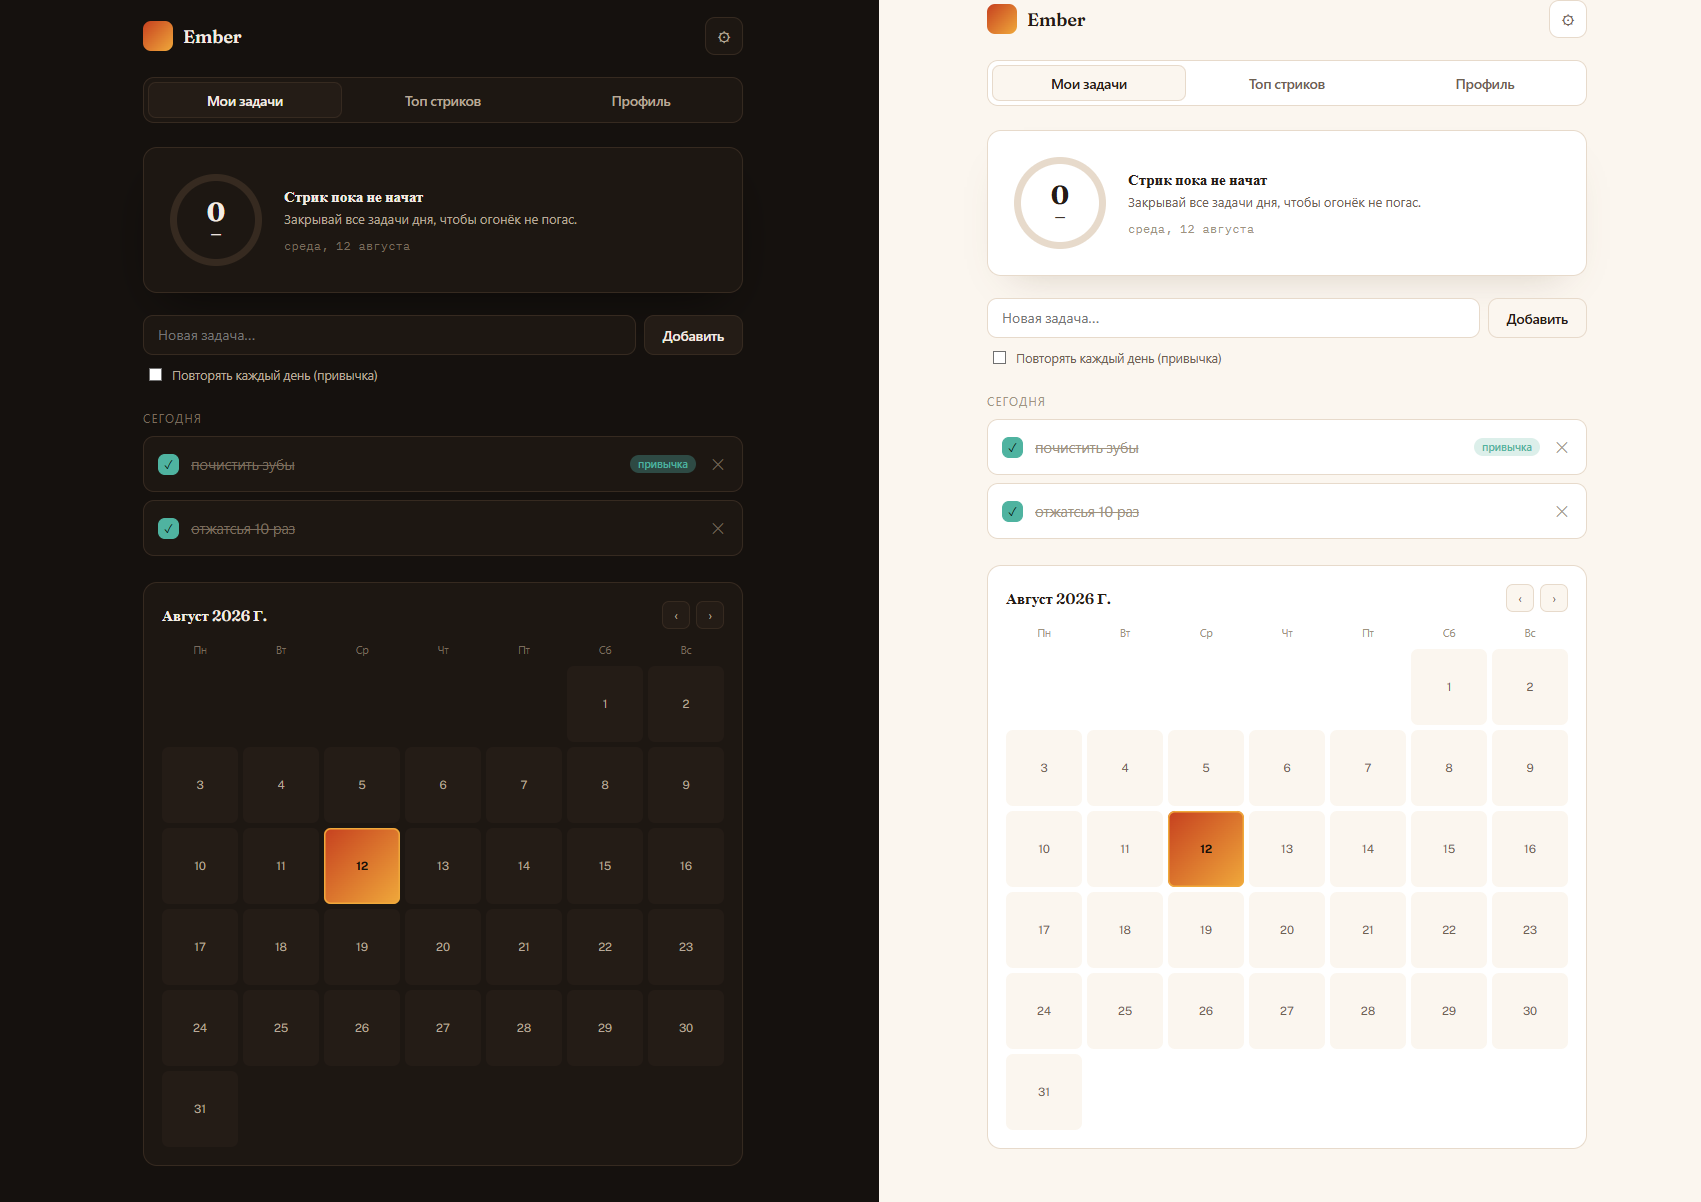
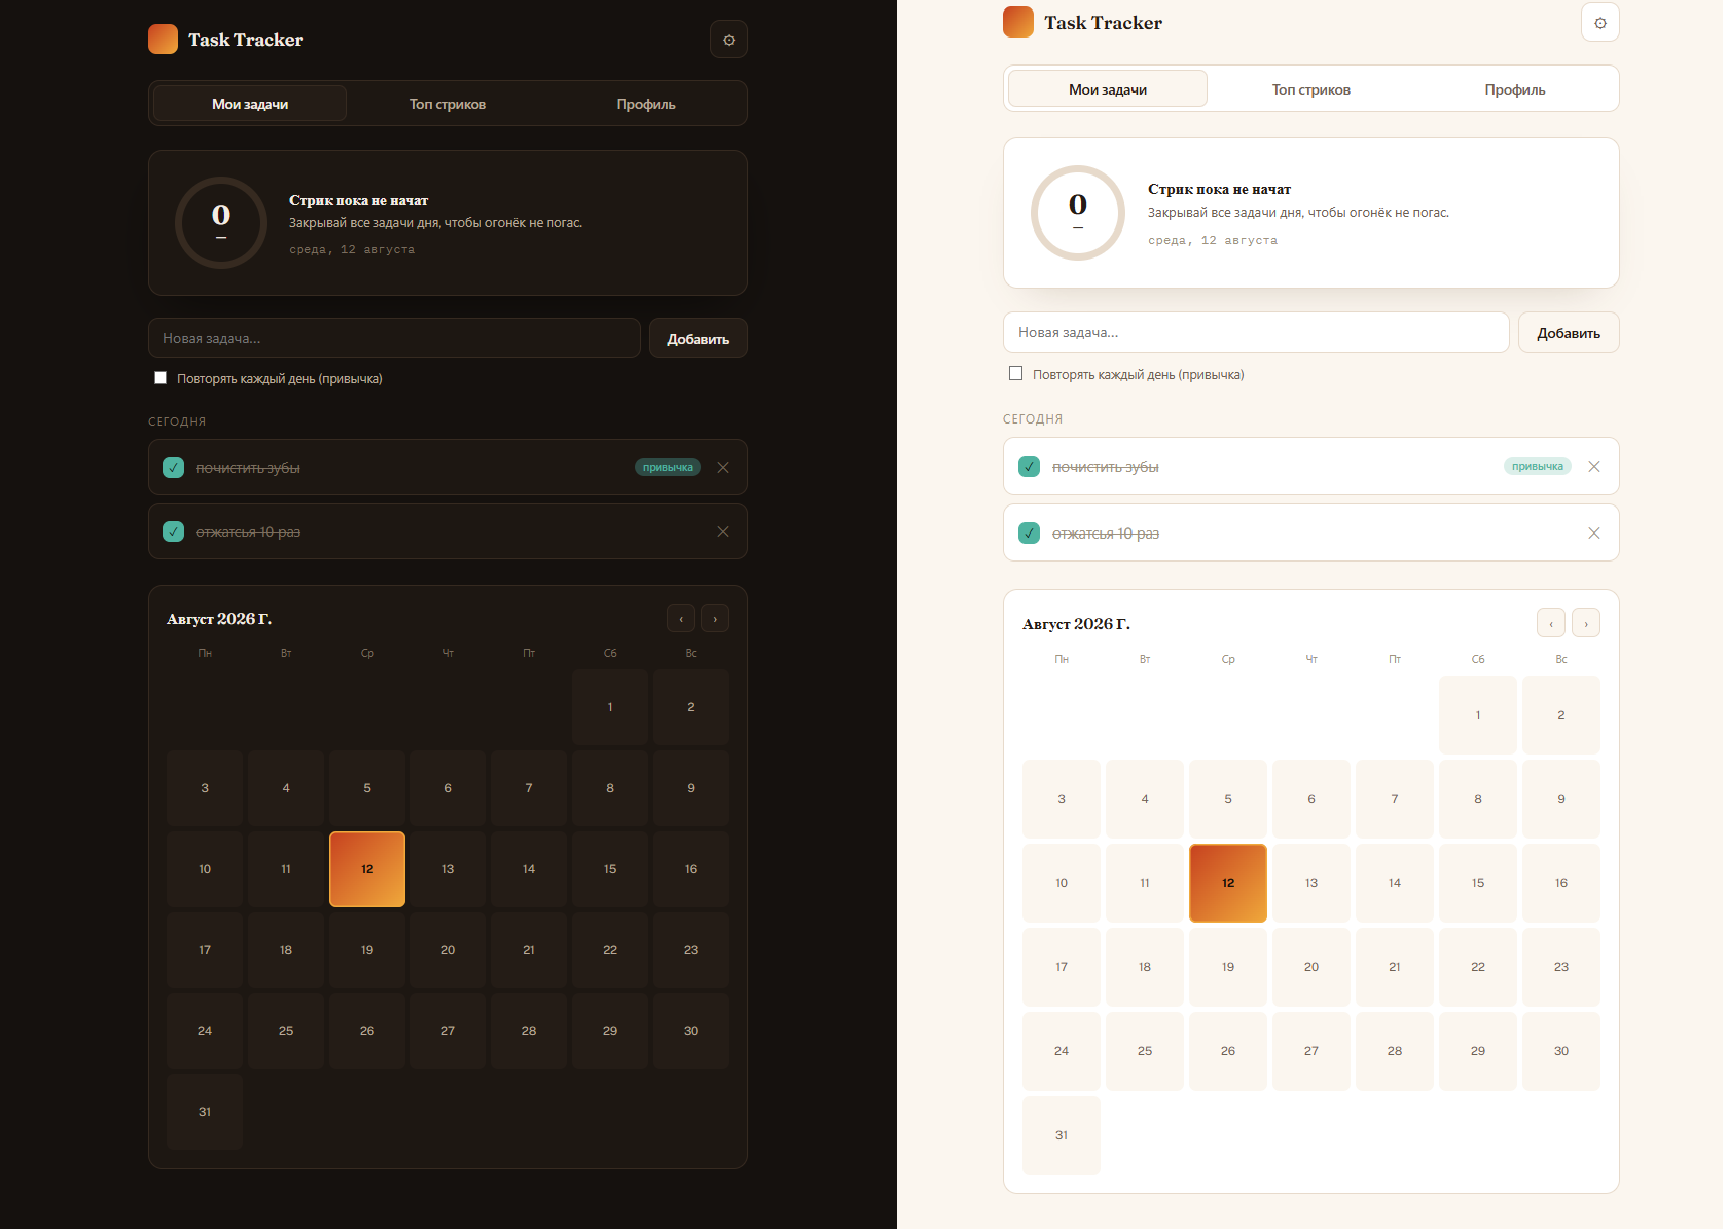
Update frontend and screenshot

diff --git a/frontend/index.html b/frontend/index.html
@@ -3,7 +3,7 @@
 <head>
 <meta charset="UTF-8" />
 <meta name="viewport" content="width=device-width, initial-scale=1.0" />
-<title>Ember — трекер задач</title>
+<title>Task Tracker</title>
 <link rel="preconnect" href="https://fonts.googleapis.com">
 <link rel="preconnect" href="https://fonts.gstatic.com" crossorigin>
 <link href="https://fonts.googleapis.com/css2?family=Fraunces:opsz,wght@9..144,400;9..144,500;9..144,600;9..144,700&family=Public+Sans:wght@400;500;600;700&family=IBM+Plex+Mono:wght@400;500&display=swap" rel="stylesheet">
@@ -589,7 +589,7 @@ function MainApp({ token, email, onLogout }) {
       <div className="topbar">
         <div className="brand">
           <div className="brand-mark"></div>
-          <span>Ember</span>
+          <span>Task Tracker</span>
         </div>
         <button className="icon-btn" onClick={() => setTab("profile")}>⚙</button>
       </div>
